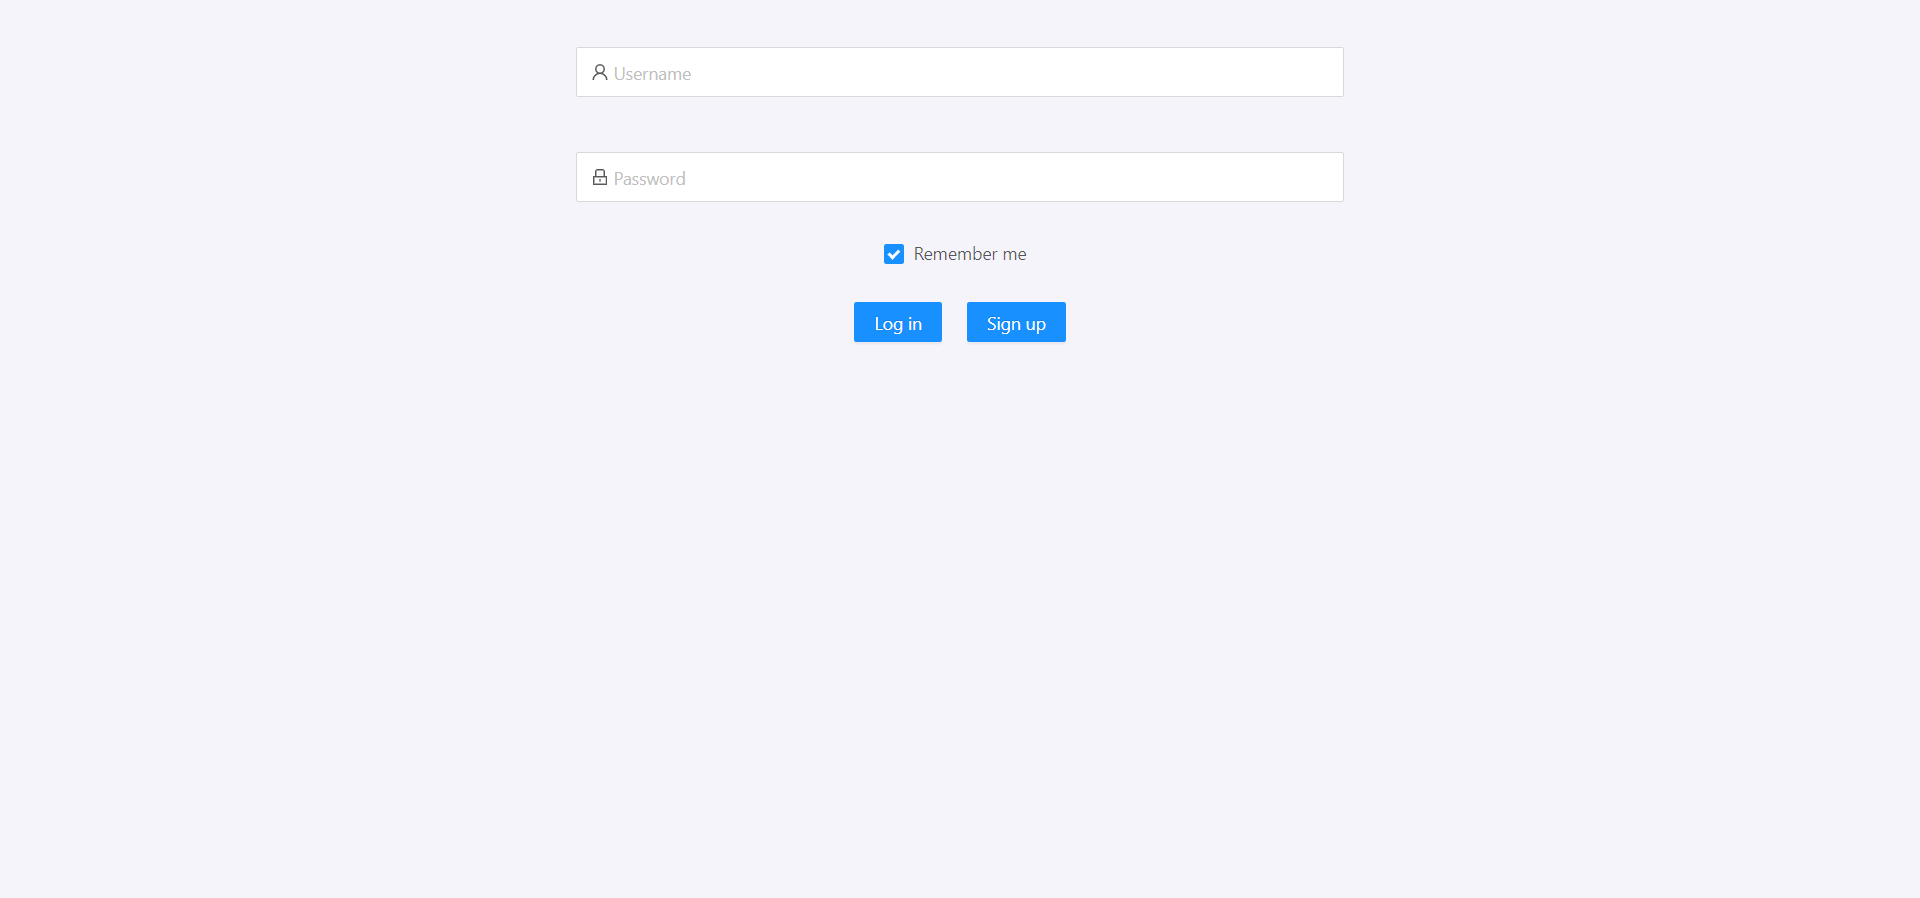
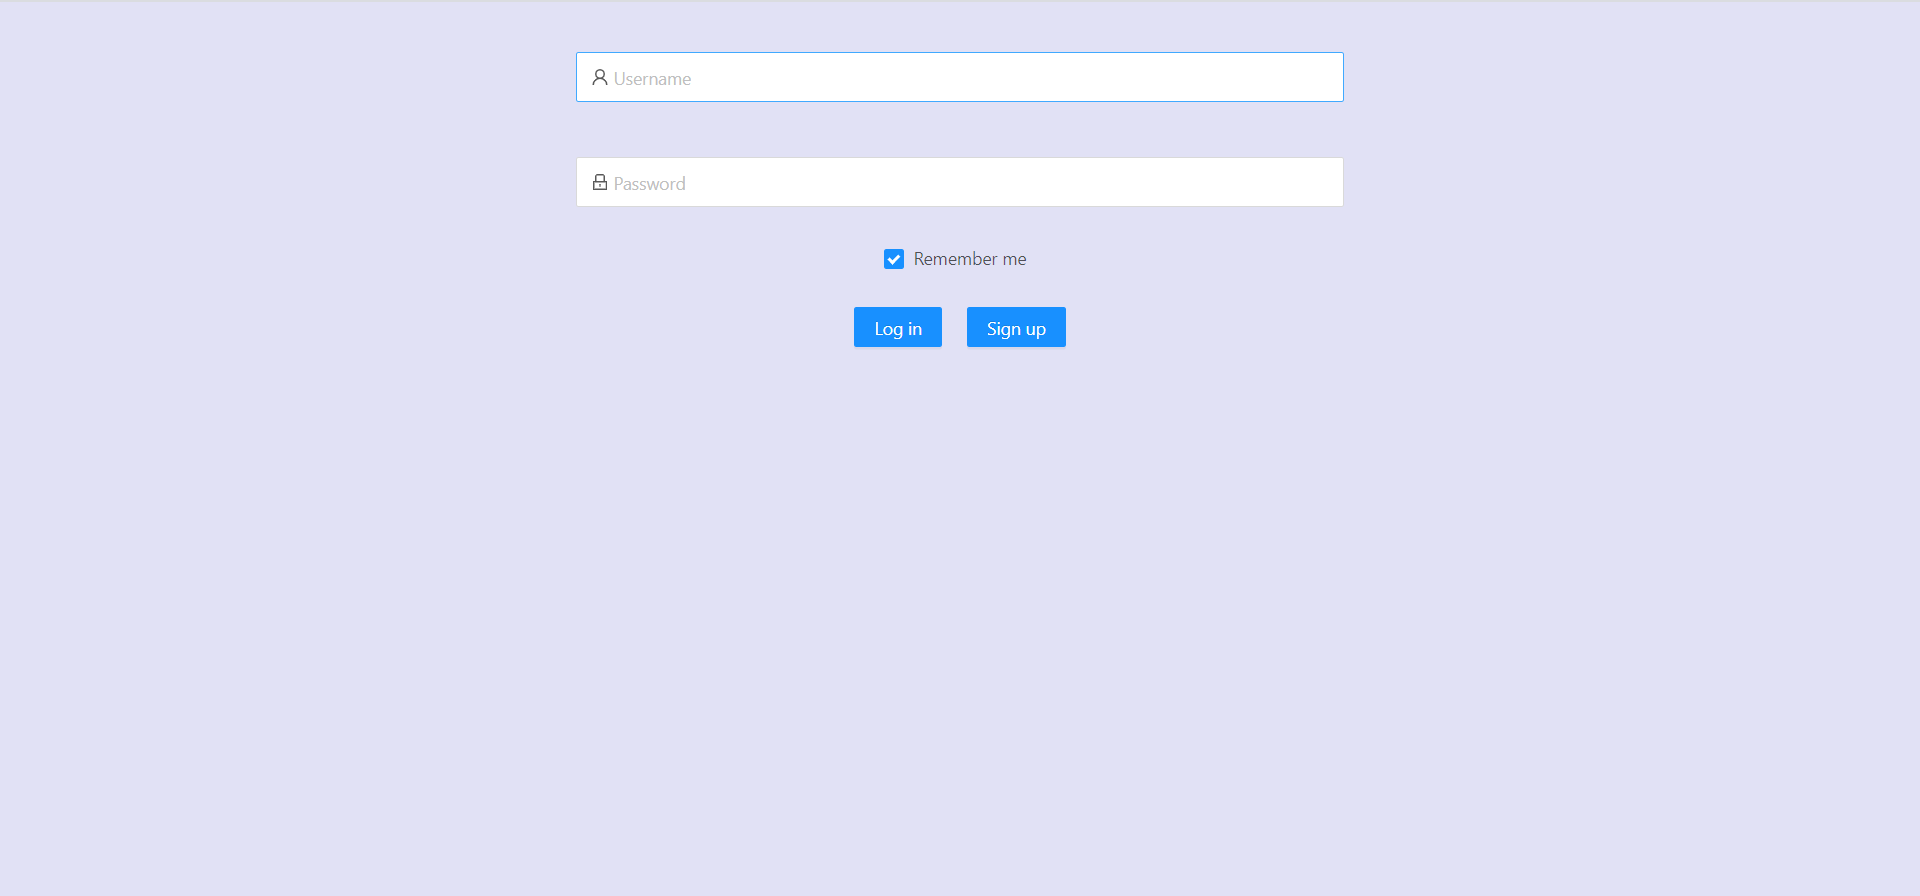
Changed color scheme

Changed region(s): [[0.4375, 0.2812, 0.5625, 0.4062], [0.3125, 0.1562, 0.6875, 0.2188], [0.3125, 0.0312, 0.6875, 0.0938]]

diff --git a/src/index.css b/src/index.css
@@ -5,7 +5,7 @@ body {
     sans-serif;
   -webkit-font-smoothing: antialiased;
   -moz-osx-font-smoothing: grayscale;
-  background-color: #f4f4fa !important;
+  background-color: #e1e1f5 !important;
 }
 ::-webkit-scrollbar {
   width: 0px;
@@ -29,10 +29,6 @@ body {
 
 #tick:hover {
   color: #34a853;
-}
-
-.filter-option {
-  cursor: pointer;
 }
 
 .ant-card {
@@ -59,9 +55,12 @@ body {
 }
 
 .filter-option {
+  cursor: pointer;
   width: 150px;
   height: 50px;
   background: #f3f0f1;
+  background-color: #ffffff;
+  justify-content: center;
   position: relative;
   border-radius: 22px;
   margin-top: 10px;
@@ -73,19 +72,18 @@ body {
   font-family: "Montserrat", sans-serif;
   font-size: 14px;
   font-weight: bolder;
-  box-shadow: 3px 3px 5px rgba(0, 0, 0, 0.2);
-  /* color: #34a853; */
-  color: #765ff7;
+  box-shadow: 2px 2px 4px rgba(0, 0, 0, 0.2);
+  color: #5d4db9;
   border: 0px;
 }
 
 .filter-option:hover {
   opacity: 0.3;
-  box-shadow: 3px 3px 5px rgba(0, 0, 0, 0.2);
+  box-shadow: 2px 2px 4px rgba(0, 0, 0, 0.2);
 }
 .filter-option:active {
   opacity: 1;
-  box-shadow: inset 4px 4px 8px rgba(0, 0, 0, 0.1);
+  box-shadow: inset 2px 2px 5px rgba(0, 0, 0, 0.1);
 }
 
 .MuiInput-underline::before {
@@ -154,7 +152,6 @@ body {
 .MuiFormControl-root {
   margin-top: 3% !important;
 }
-
 
 code {
   font-family: source-code-pro, Menlo, Monaco, Consolas, "Courier New",
@@ -318,12 +315,14 @@ a.more-link {
   margin-right: 10px;
 }
 
-.ant-page-header-heading-left{
-  margin-left: 3% !important; 
-  /* color: #d62d20 !important; */
+.ant-page-header-heading-left {
+  margin-left: 3% !important;
+}
+.ant-page-header-heading-title {
+  color: #3c3080 !important;
 }
 
-.ant-page-header{
+.ant-page-header {
   padding-top: 0px !important;
   padding-bottom: 0px !important;
 }

diff --git a/src/components/Todo.js b/src/components/Todo.js
@@ -49,9 +49,17 @@ export default class Todo extends React.Component {
         <Col span={7}>
           <Card
             title="Card"
-            bordered={false}
+            bordered={true}
             hoverable="true"
             title={dhm(this.state.diff)}
+            headStyle={{
+              borderColor: this.props.completed ? "#5d4db9" : "#f0f0f0",
+              color: "#3c3080",
+            }}
+            style={{
+              backgroundColor: this.props.completed ? "#f9f9ff" : "#ffffff",
+              color: "#3c3080",
+            }}
             extra={
               <>
                 <CheckOutlined
@@ -70,14 +78,7 @@ export default class Todo extends React.Component {
               </>
             }
           >
-            <p
-              className="content"
-              style={{
-                textDecoration: this.props.completed ? "line-through" : "none",
-              }}
-            >
-              {this.props.body}
-            </p>
+            <p className="content">{this.props.body}</p>
           </Card>
         </Col>
       </>

diff --git a/src/components/DisplayFilter.js b/src/components/DisplayFilter.js
@@ -9,7 +9,7 @@ function Filter(props) {
         onClick={() => props.changeFilter("SHOW_ALL")}
         style={{
           backgroundColor:
-            props.visibilityFilter === "SHOW_ALL" ? "#eeeeee" : "transparent",
+            props.visibilityFilter === "SHOW_ALL" ? "#eeeeee" : "#ffffff",
         }}
         className="filter-option"
       >
@@ -21,7 +21,7 @@ function Filter(props) {
           backgroundColor:
             props.visibilityFilter === "SHOW_COMPLETED"
               ? "#eeeeee"
-              : "transparent",
+              : "#ffffff",
         }}
         className="filter-option"
       >
@@ -33,7 +33,7 @@ function Filter(props) {
           backgroundColor:
             props.visibilityFilter === "SHOW_ACTIVE"
               ? "#eeeeee"
-              : "transparent",
+              : "#ffffff",
         }}
         className="filter-option"
       >

diff --git a/src/components/MainPage.js b/src/components/MainPage.js
@@ -27,7 +27,9 @@ function MainPage(props) {
         className="site-page-header"
         title={sessionStorage.getItem("username")}
         extra={[
-          <Button
+          <div
+            className="filter-option"
+            style={{ width: "100px", backgroundColor: "#e1e1f5" }}
             onClick={() => {
               sessionStorage.removeItem("token");
               sessionStorage.removeItem("username");
@@ -35,7 +37,7 @@ function MainPage(props) {
             }}
           >
             Log out
-          </Button>,
+          </div>,
         ]}
       />
       <Toolbar />

diff --git a/src/components/AddTodo.js b/src/components/AddTodo.js
@@ -39,7 +39,12 @@ class AddTodo extends React.Component {
           <button
             type="submit"
             className="filter-option"
-            style={{ backgroundColor: "transparent", outline: "none" }}
+            style={{
+              backgroundColor: "#ffffff",
+              outline: "none",
+              marginLeft: "15px",
+              width: "150px",
+            }}
           >
             Add Todo
           </button>

diff --git a/src/reducers/RootReducer.js b/src/reducers/RootReducer.js
@@ -1,5 +1,4 @@
 import { setTodos } from "../requests";
-import { Redirect } from "react-router-dom";
 
 let initState = {
   todos: [],
